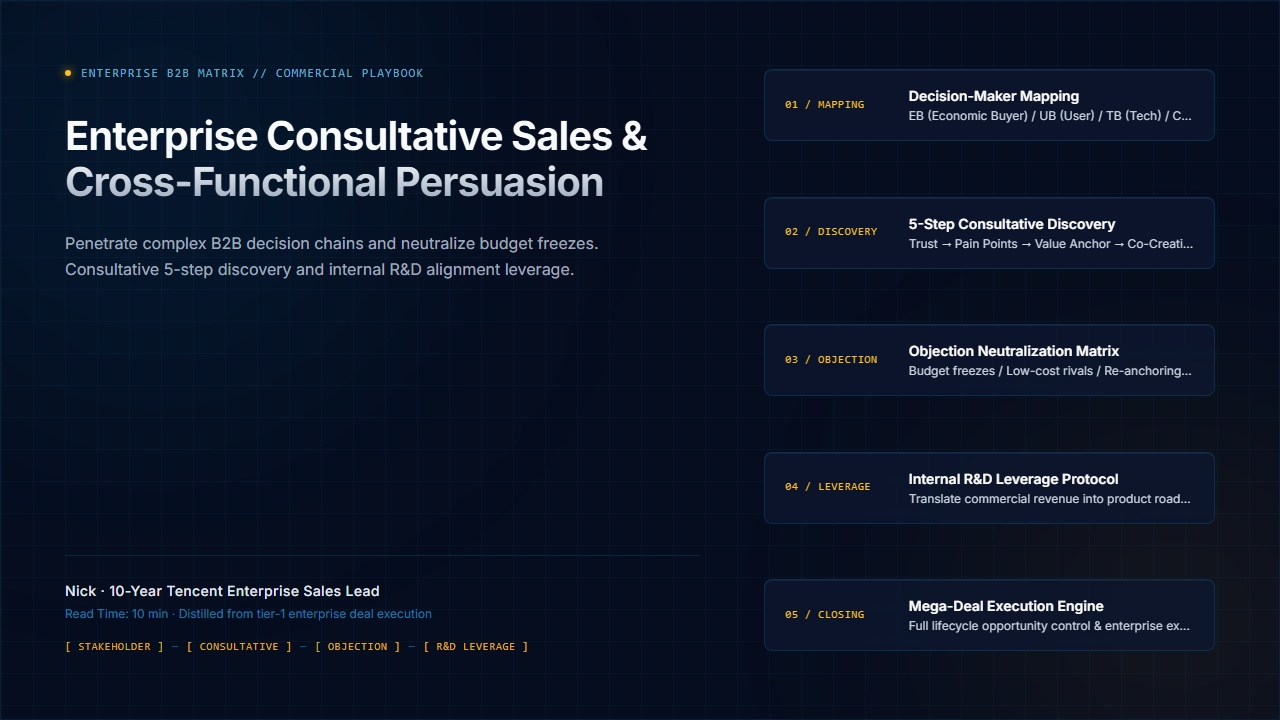
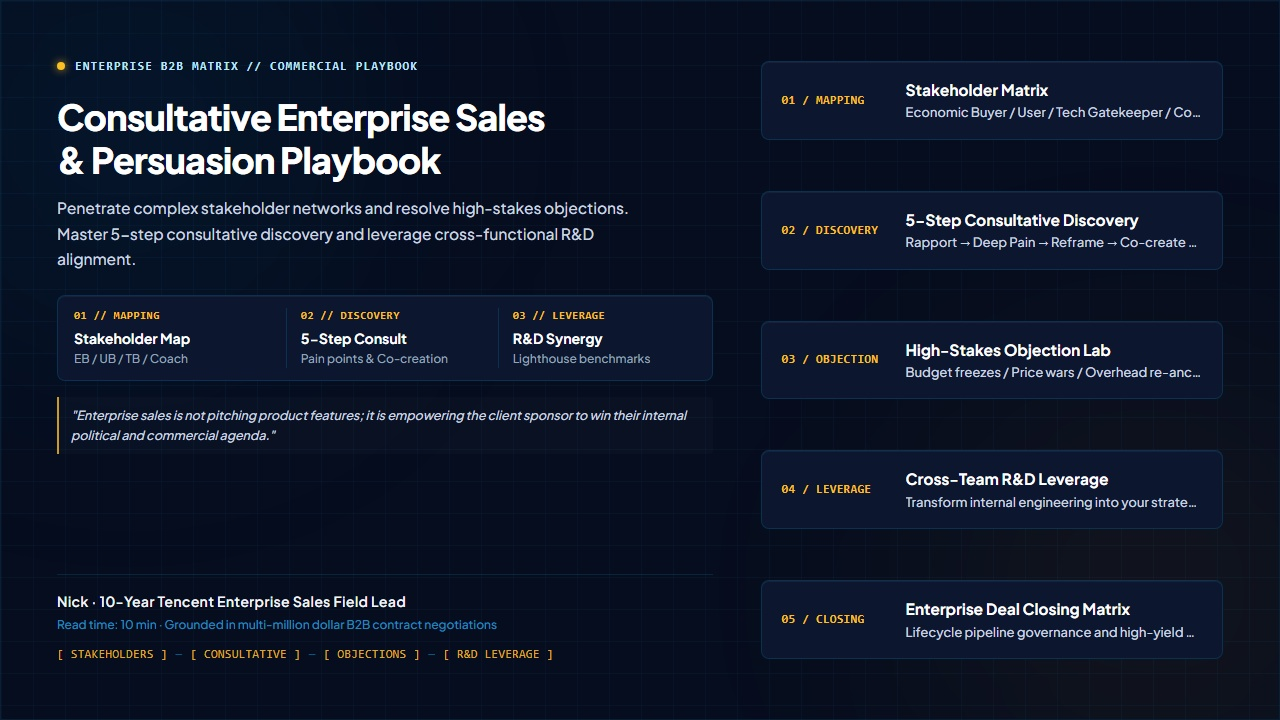
style(design): polish Sovereign Navy typography hierarchy and deploy 1280x640 enterprise deal architecture blueprint

diff --git a/README.md b/README.md
@@ -48,7 +48,7 @@ Modeled after modern SaaS resource centers and enterprise collaboration framewor
 The following diagram illustrates the complete deal lifecycle from discovery to cross-functional realization:
 
 <div align="center">
-  <img src="assets/architecture.svg" alt="System Architecture Diagram" width="100%" />
+  <img src="assets/architecture.png" alt="System Architecture Diagram" width="100%" />
 </div>
 
 ---

diff --git a/README_zh.md b/README_zh.md
@@ -48,7 +48,7 @@
 下图展示了从商机线索输入到最终成单与跨部门交付的完整闭环流程：
 
 <div align="center">
-  <img src="assets/architecture_zh.svg" alt="业务系统架构图" width="100%" />
+  <img src="assets/architecture_zh.png" alt="业务系统架构图" width="100%" />
 </div>
 
 ---
